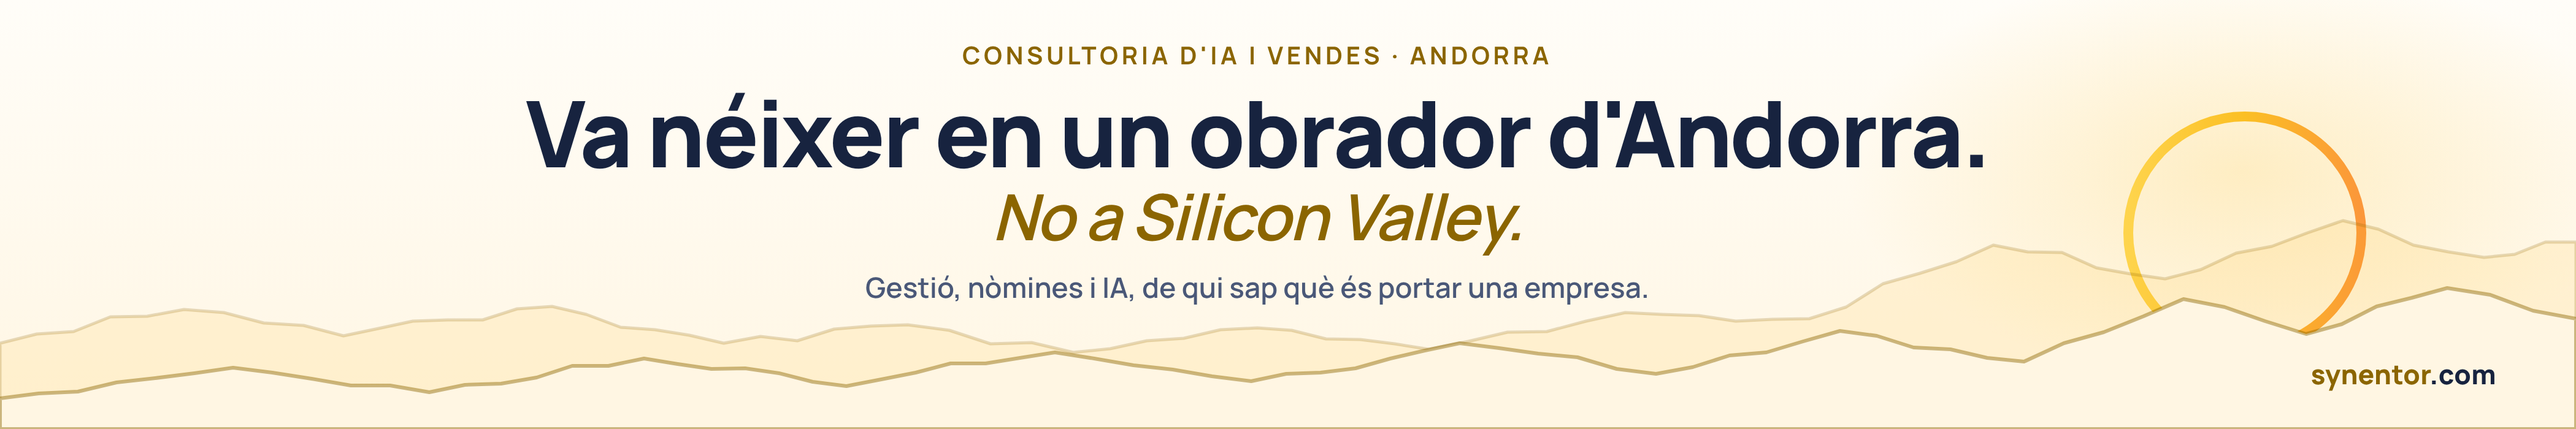
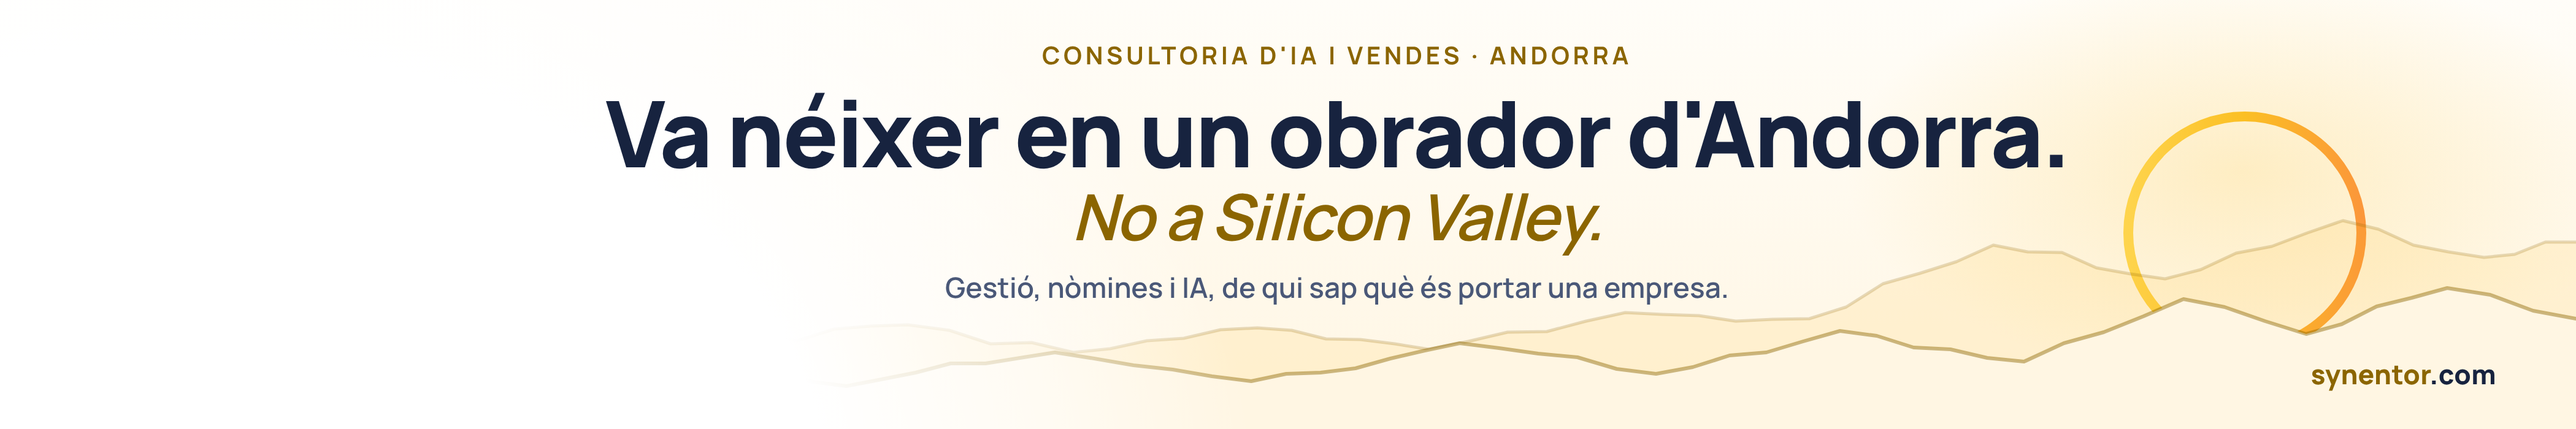
LinkedIn: la portada funde el cuadro blanco del logotipo con el paisaje (#14)
LinkedIn pone el logotipo sobre un cuadro blanco. La portada lleva ahora una niebla blanca en el valle de la izquierda
(blanco puro debajo del logotipo, como el cuadro y la página) y el paisaje aparece poco a poco hacia la derecha. Además,
las crestas ya no trazan una línea por el borde de abajo y el texto se desplaza un poco a la derecha.

Claude-Session: https://claude.ai/code/session_014s8xKDYfSpn4ZKdjZ3bjE8

diff --git a/docs/redes/linkedin-portada.html b/docs/redes/linkedin-portada.html
@@ -29,7 +29,7 @@
   }
   svg { position: absolute; inset: 0; }
   .texto {
-    position: absolute; left: 2050px; top: 62px; transform: translateX(-50%);
+    position: absolute; left: 2180px; top: 62px; transform: translateX(-50%);
     width: 2600px; text-align: center;
   }
   .ante { color: var(--oro-legible); font-weight: 700; font-size: 40px; letter-spacing: 0.14em; text-transform: uppercase; }
@@ -47,14 +47,24 @@
       <linearGradient id="oro" x1="0" x2="1" y1="0" y2="0">
         <stop offset="0" stop-color="#fed44c"/><stop offset="0.5" stop-color="#fbbf24"/><stop offset="1" stop-color="#fb973a"/>
       </linearGradient>
+    <!-- Niebla en el valle de la izquierda: blanco puro donde LinkedIn pone el logotipo (su cuadro es blanco), para que
+         el cuadro se funda con el paisaje y con la página, que también es blanca. -->
+    <radialGradient id="niebla" gradientUnits="userSpaceOnUse" cx="0" cy="0" r="1"
+                    gradientTransform="translate(300 820) scale(1750 1250)">
+      <stop offset="0" stop-color="#ffffff" stop-opacity="1"/>
+      <stop offset="0.6" stop-color="#ffffff" stop-opacity="1"/>
+      <stop offset="0.82" stop-color="#ffffff" stop-opacity="0.55"/>
+      <stop offset="1" stop-color="#ffffff" stop-opacity="0"/>
+    </radialGradient>
     </defs>
     <!-- El anillo de oro del símbolo, como un sol que sale detrás de las montañas de Andorra. -->
     <circle cx="3660" cy="380" r="190" fill="none" stroke="url(#oro)" stroke-width="16"/>
     <!-- Cordilleras: la del fondo, más clara; la de delante tapa la mitad del sol. -->
-    <path d="M0 560 L60 545 L120 541 L180 517 L240 516 L300 505 L365 510 L430 527 L495 531 L560 548 L617 536 L673 524 L730 522 L787 522 L843 504 L900 500 L956 513 L1012 534 L1068 538 L1124 547 L1180 560 L1240 549 L1300 556 L1360 537 L1420 532 L1480 530 L1548 539 L1615 561 L1682 559 L1750 575 L1810 569 L1870 556 L1930 552 L1990 538 L2050 535 L2106 539 L2162 553 L2218 554 L2274 561 L2330 570 L2394 557 L2458 542 L2522 541 L2586 524 L2650 510 L2710 513 L2770 515 L2830 524 L2890 521 L2950 520 L3010 501 L3070 463 L3130 446 L3190 427 L3250 400 L3306 411 L3362 412 L3418 437 L3474 447 L3530 455 L3588 440 L3646 413 L3704 402 L3762 380 L3820 360 L3878 374 L3935 400 L3992 411 L4050 420 L4100 415 L4150 395 L4200 395 L4200 700 L0 700 Z"
-          fill="rgba(251,191,36,0.12)" stroke="rgba(139,101,0,0.22)" stroke-width="5" stroke-linejoin="round"/>
-    <path d="M0 650 L63 642 L127 639 L190 624 L253 617 L317 609 L380 600 L444 608 L508 618 L572 629 L636 629 L700 640 L758 628 L817 626 L875 616 L933 597 L992 597 L1050 585 L1105 594 L1160 602 L1215 601 L1270 609 L1325 623 L1380 630 L1437 619 L1493 608 L1550 593 L1607 593 L1663 584 L1720 575 L1784 585 L1848 596 L1912 603 L1976 614 L2040 622 L2097 610 L2153 608 L2210 601 L2267 585 L2323 572 L2380 560 L2444 568 L2508 577 L2572 583 L2636 602 L2700 610 L2760 599 L2820 580 L2880 575 L2940 557 L3000 540 L3060 548 L3120 567 L3180 570 L3240 584 L3300 590 L3365 560 L3430 542 L3495 516 L3560 488 L3627 501 L3693 524 L3760 545 L3818 529 L3875 500 L3932 486 L3990 470 L4060 481 L4130 507 L4200 520 L4200 700 L0 700 Z"
-          fill="#fff6e3" stroke="rgba(139,101,0,0.45)" stroke-width="6" stroke-linejoin="round"/>
+    <path d="M0 560 L60 545 L120 541 L180 517 L240 516 L300 505 L365 510 L430 527 L495 531 L560 548 L617 536 L673 524 L730 522 L787 522 L843 504 L900 500 L956 513 L1012 534 L1068 538 L1124 547 L1180 560 L1240 549 L1300 556 L1360 537 L1420 532 L1480 530 L1548 539 L1615 561 L1682 559 L1750 575 L1810 569 L1870 556 L1930 552 L1990 538 L2050 535 L2106 539 L2162 553 L2218 554 L2274 561 L2330 570 L2394 557 L2458 542 L2522 541 L2586 524 L2650 510 L2710 513 L2770 515 L2830 524 L2890 521 L2950 520 L3010 501 L3070 463 L3130 446 L3190 427 L3250 400 L3306 411 L3362 412 L3418 437 L3474 447 L3530 455 L3588 440 L3646 413 L3704 402 L3762 380 L3820 360 L3878 374 L3935 400 L3992 411 L4050 420 L4100 415 L4150 395 L4200 395 L4200 700 L0 700 Z" fill="rgba(251,191,36,0.12)" stroke="none"/>
+    <path d="M0 560 L60 545 L120 541 L180 517 L240 516 L300 505 L365 510 L430 527 L495 531 L560 548 L617 536 L673 524 L730 522 L787 522 L843 504 L900 500 L956 513 L1012 534 L1068 538 L1124 547 L1180 560 L1240 549 L1300 556 L1360 537 L1420 532 L1480 530 L1548 539 L1615 561 L1682 559 L1750 575 L1810 569 L1870 556 L1930 552 L1990 538 L2050 535 L2106 539 L2162 553 L2218 554 L2274 561 L2330 570 L2394 557 L2458 542 L2522 541 L2586 524 L2650 510 L2710 513 L2770 515 L2830 524 L2890 521 L2950 520 L3010 501 L3070 463 L3130 446 L3190 427 L3250 400 L3306 411 L3362 412 L3418 437 L3474 447 L3530 455 L3588 440 L3646 413 L3704 402 L3762 380 L3820 360 L3878 374 L3935 400 L3992 411 L4050 420 L4100 415 L4150 395 L4200 395" fill="none" stroke="rgba(139,101,0,0.22)" stroke-width="5" stroke-linejoin="round" stroke-linecap="round"/>
+    <path d="M0 650 L63 642 L127 639 L190 624 L253 617 L317 609 L380 600 L444 608 L508 618 L572 629 L636 629 L700 640 L758 628 L817 626 L875 616 L933 597 L992 597 L1050 585 L1105 594 L1160 602 L1215 601 L1270 609 L1325 623 L1380 630 L1437 619 L1493 608 L1550 593 L1607 593 L1663 584 L1720 575 L1784 585 L1848 596 L1912 603 L1976 614 L2040 622 L2097 610 L2153 608 L2210 601 L2267 585 L2323 572 L2380 560 L2444 568 L2508 577 L2572 583 L2636 602 L2700 610 L2760 599 L2820 580 L2880 575 L2940 557 L3000 540 L3060 548 L3120 567 L3180 570 L3240 584 L3300 590 L3365 560 L3430 542 L3495 516 L3560 488 L3627 501 L3693 524 L3760 545 L3818 529 L3875 500 L3932 486 L3990 470 L4060 481 L4130 507 L4200 520 L4200 700 L0 700 Z" fill="#fff6e3" stroke="none"/>
+    <path d="M0 650 L63 642 L127 639 L190 624 L253 617 L317 609 L380 600 L444 608 L508 618 L572 629 L636 629 L700 640 L758 628 L817 626 L875 616 L933 597 L992 597 L1050 585 L1105 594 L1160 602 L1215 601 L1270 609 L1325 623 L1380 630 L1437 619 L1493 608 L1550 593 L1607 593 L1663 584 L1720 575 L1784 585 L1848 596 L1912 603 L1976 614 L2040 622 L2097 610 L2153 608 L2210 601 L2267 585 L2323 572 L2380 560 L2444 568 L2508 577 L2572 583 L2636 602 L2700 610 L2760 599 L2820 580 L2880 575 L2940 557 L3000 540 L3060 548 L3120 567 L3180 570 L3240 584 L3300 590 L3365 560 L3430 542 L3495 516 L3560 488 L3627 501 L3693 524 L3760 545 L3818 529 L3875 500 L3932 486 L3990 470 L4060 481 L4130 507 L4200 520" fill="none" stroke="rgba(139,101,0,0.45)" stroke-width="6" stroke-linejoin="round" stroke-linecap="round"/>
+    <rect x="0" y="0" width="4200" height="700" fill="url(#niebla)"/>
   </svg>
   <div class="texto">
     <div class="ante" data-t="ante"></div>

diff --git a/docs/redes/LINKEDIN.md b/docs/redes/LINKEDIN.md
@@ -24,6 +24,11 @@ tarifa cambia, se cambian también aquí.
 LinkedIn tiene **una sola portada** para todos los idiomas: la castellana, si la página está en castellano. El logotipo tapa
 la esquina de abajo a la izquierda y en el móvil la portada se recorta por los lados: por eso el texto va en el centro.
 
+LinkedIn pone el logotipo sobre un **cuadro blanco** (rellena de blanco lo transparente). Para que ese cuadro no se vea,
+la portada lleva una niebla blanca en el valle de la izquierda: debajo del logotipo es blanco puro (`#ffffff`), como el
+cuadro y como la página, y el paisaje aparece poco a poco hacia la derecha (15/11/2026, a petición de gerencia). Si se
+cambia la portada, esa esquina tiene que seguir siendo blanca.
+
 La portada sale de `docs/redes/linkedin-portada.html` (con la tipografía Manrope de la web): para cambiarla, se edita ese
 fichero y se captura a 4200 × 700 con el navegador (`?idioma=es` o `?idioma=ca`).
 
